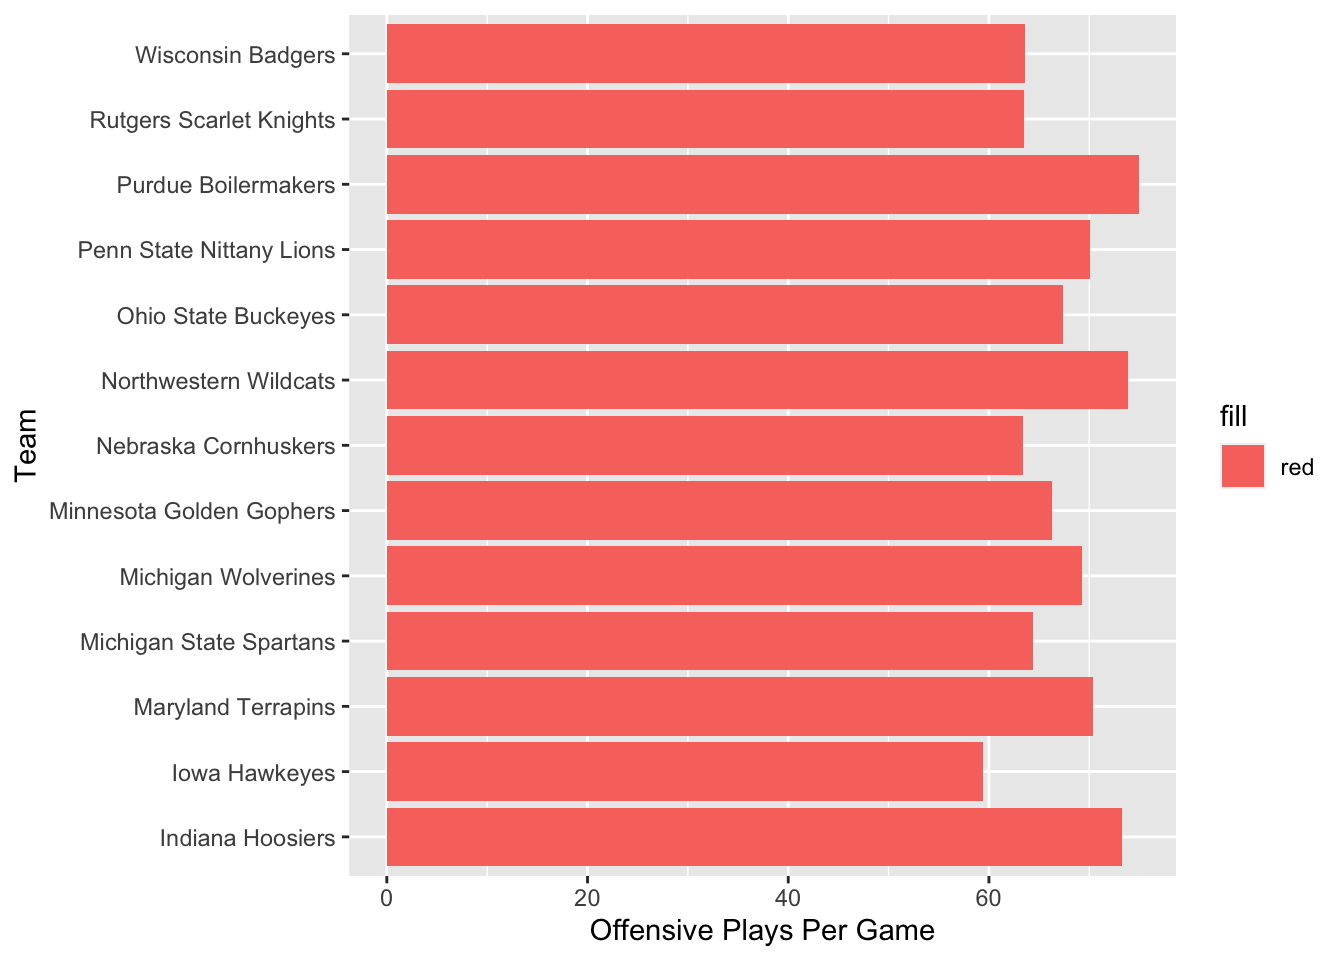
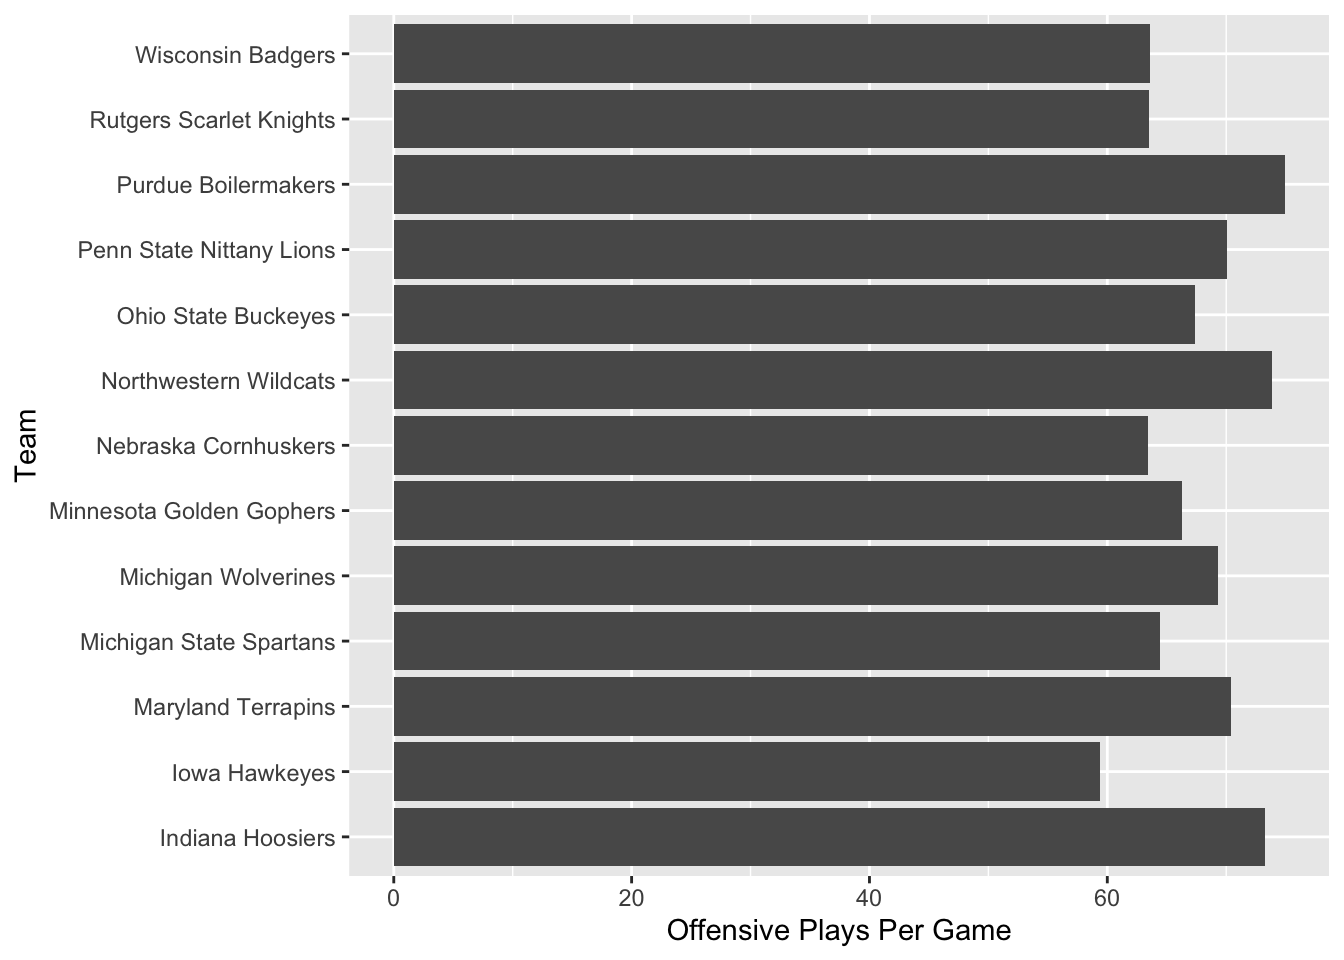
re-render

diff --git a/_site/posts/b1g-plays/index.html b/_site/posts/b1g-plays/index.html
@@ -245,7 +245,7 @@ date  (1): Date
 <span id="cb7-9"><a href="#cb7-9" aria-hidden="true" tabindex="-1"></a><span class="fu">ggplot</span>() <span class="sc">+</span> </span>
 <span id="cb7-10"><a href="#cb7-10" aria-hidden="true" tabindex="-1"></a>  <span class="fu">geom_bar</span>(</span>
 <span id="cb7-11"><a href="#cb7-11" aria-hidden="true" tabindex="-1"></a>    <span class="at">data=</span>games2022_playsPerGame, </span>
-<span id="cb7-12"><a href="#cb7-12" aria-hidden="true" tabindex="-1"></a>    <span class="fu">aes</span>(<span class="at">x=</span>TeamFull, <span class="at">weight=</span>avgOffPlays, <span class="at">fill=</span><span class="st">"red"</span>)</span>
+<span id="cb7-12"><a href="#cb7-12" aria-hidden="true" tabindex="-1"></a>    <span class="fu">aes</span>(<span class="at">x=</span>TeamFull, <span class="at">weight=</span>avgOffPlays)</span>
 <span id="cb7-13"><a href="#cb7-13" aria-hidden="true" tabindex="-1"></a>  ) <span class="sc">+</span></span>
 <span id="cb7-14"><a href="#cb7-14" aria-hidden="true" tabindex="-1"></a>  <span class="fu">ylab</span>(<span class="st">"Offensive Plays Per Game"</span>) <span class="sc">+</span></span>
 <span id="cb7-15"><a href="#cb7-15" aria-hidden="true" tabindex="-1"></a>  <span class="fu">xlab</span>(<span class="st">"Team"</span>) <span class="sc">+</span></span>

diff --git a/_site/index.html b/_site/index.html
@@ -173,7 +173,7 @@ ul.task-list li input[type="checkbox"] {
 
 <div class="quarto-listing quarto-listing-container-default" id="listing-listing">
 <div class="list quarto-listing-default">
-<div class="quarto-post image-right" data-index="0" data-categories="news" data-listing-date-sort="1696910400000" data-listing-file-modified-sort="1696977045746" data-listing-date-modified-sort="NaN" data-listing-reading-time-sort="1">
+<div class="quarto-post image-right" data-index="0" data-categories="news" data-listing-date-sort="1696910400000" data-listing-file-modified-sort="1696995278415" data-listing-date-modified-sort="NaN" data-listing-reading-time-sort="1">
 <div class="thumbnail">
 <p><a href="./posts/b1g-plays/index.html"> <p class="card-img-top"><img src="posts/b1g-plays/index_files/figure-html/unnamed-chunk-2-1.png"  class="thumbnail-image card-img"/></p> </a></p>
 </div>
